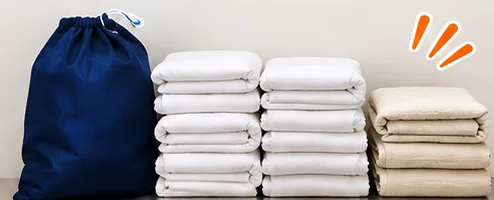
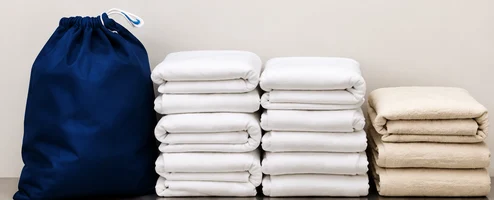
Remove orange graphics from both laundry bag comparison photos

diff --git a/index.html b/index.html
@@ -193,11 +193,11 @@
           <p>These examples are illustrative. What fits depends on the fabric and how bulky the items are.</p>
           <div class="bag-comparison-grid">
             <figure>
-              <img src="assets/regular-blue-bag-example.webp" alt="Blue laundry bag beside stacks of folded sheets" width="494" height="200" loading="lazy">
+              <img src="assets/regular-blue-bag-example.webp?v=retouched" alt="Blue laundry bag beside stacks of folded sheets" width="494" height="200" loading="lazy">
               <figcaption><strong>Regular Blue Bag · Up to 25 lb</strong><br>Example load: three queen sheet sets and one king sheet set.</figcaption>
             </figure>
             <figure>
-              <img src="assets/xl-orange-bag-example.webp" alt="Orange laundry bag beside a large pile of mixed clothes and linens" width="491" height="200" loading="lazy">
+              <img src="assets/xl-orange-bag-example.webp?v=retouched" alt="Orange laundry bag beside a large pile of mixed clothes and linens" width="491" height="200" loading="lazy">
               <figcaption><strong>XL Orange Bag · Up to 40 lb</strong><br>Example load: a large mix of everyday clothes, sheets and towels.</figcaption>
             </figure>
           </div>
